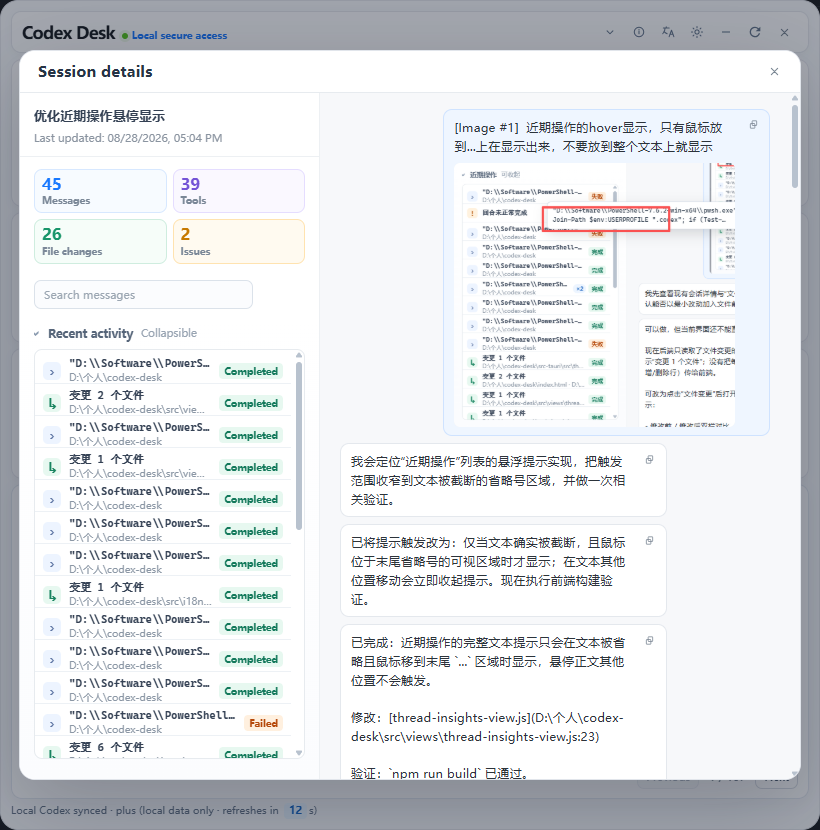
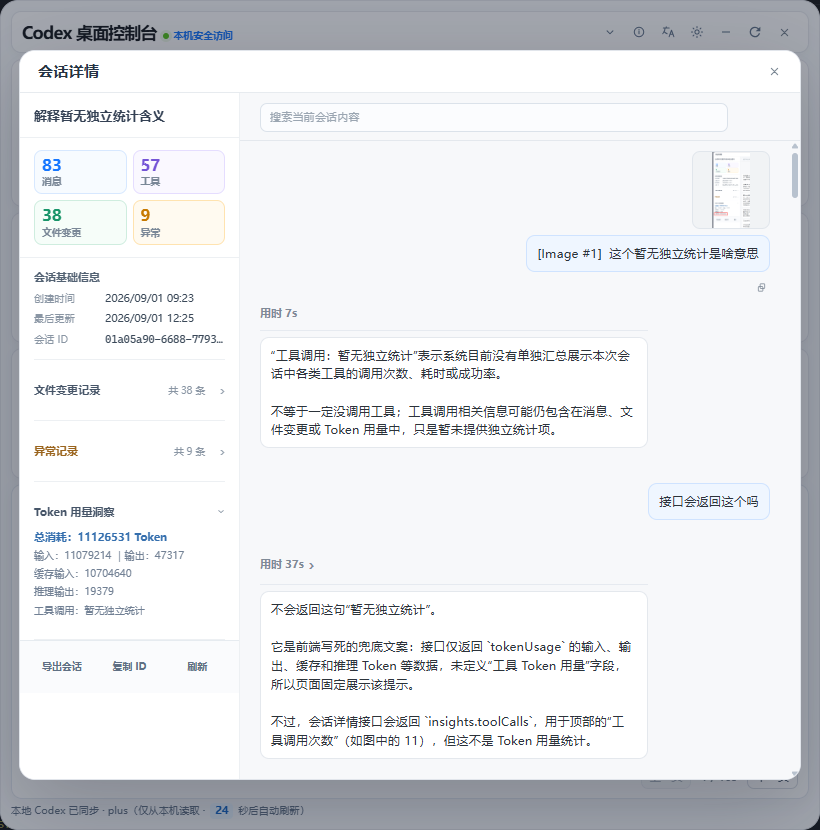
feat: 更新本地数据获取与会话详情描述

diff --git a/README.md b/README.md
@@ -14,7 +14,7 @@
 
 Codex Desk is a privacy-first desktop control center for Codex CLI. It keeps a floating quota indicator on your desktop and provides quota alerts, account and usage overviews, local session browsing, activity and Token trends, session insights, and cross-device session migration.
 
-Data is obtained through the local `codex app-server --stdio` process. Codex Desk does not upload your data to a third-party service or read or save `auth.json`.
+Account, quota, and session data are obtained through the local `codex app-server --stdio` process. Token usage is aggregated from cumulative snapshots in local Codex session files. Codex Desk does not upload your data to a third-party service or read or save `auth.json`.
 
 If Codex Desk helps you manage your sessions, please consider giving the project a **Star**. Feedback and bug reports are welcome through [Issues](https://github.com/xiaotao-xiaotao/codex-desk/issues).
 
@@ -47,13 +47,14 @@ After installation, you still need to install and sign in to Codex CLI separatel
 - **Account and usage overview**: view a masked sign-in email, current plan, quota windows, usage percentage, reset time, available rate-limit resets, and a link to the official billing portal.
 - **Quota alerts**: after you explicitly enable native notifications, get one alert per reset window at 80%, 90%, and 100% usage.
 - **Activity trends**: view the last 3, 7, or 30 days and independently show or hide messages, tool calls, file changes, and errors in a code-drawn line chart.
-- **Token insights**: view daily Token usage and totals for the last 3, 7, or 30 days when the local Codex app server provides usage data.
+- **Token insights**: aggregate daily Token usage and totals for the last 3, 7, or 30 days from cumulative snapshots in local Codex session files; session details also show total, input, output, cached-input, and reasoning-output usage.
 - **Local sessions**: browse non-archived local sessions, search by title or session ID, and view creation and update times.
-- **Session details and insights**: inspect user messages and Codex replies, enlarge images in a dedicated preview, copy messages with images when the system clipboard supports rich content, and review aggregate activity metrics.
-- **File change comparison**: open recorded file changes from recent activity and compare diffs side by side or inline. Historical diffs are shown from the session record and are not read from the current workspace.
+- **Session details and insights**: inspect user messages and Codex replies, with intermediate replies from the same turn collapsed under elapsed time while the final reply stays expanded. Enlarge images in a dedicated preview, copy messages with images when the system clipboard supports rich content, and review aggregate activity metrics.
+- **File change comparison**: aggregate file and tool activity below the relevant reply. File cards show filenames and added/removed line counts, and can be expanded before opening side-by-side or inline diffs. Historical diffs are shown from the session record and are not read from the current workspace.
 - **Resume quickly**: copy `codex resume <session ID>` from session details and continue the session in your terminal.
 - **Session import and export**: export selected sessions as portable Codex Desk bundles and import them as new sessions on another signed-in device.
-- **Local data boundary**: account, quota, Token, and session data are obtained through the local Codex app server; local JSONL files and authentication data are not parsed or stored by the app.
+- **Single-instance behavior**: launching the app again brings the existing window to the front, avoiding duplicate Codex app-server and floating-orb instances.
+- **Local data boundary**: account, quota, and session data are obtained through the local Codex app server. Token usage is read only from cumulative snapshots in local Codex session files. Authentication data is never read or stored, and no data is uploaded to third-party services.
 - **Local diagnostics**: diagnostics only check the local CLI, `app-server`, and quota access; no auth file is read and no data is uploaded.
 
 ## Screenshots
